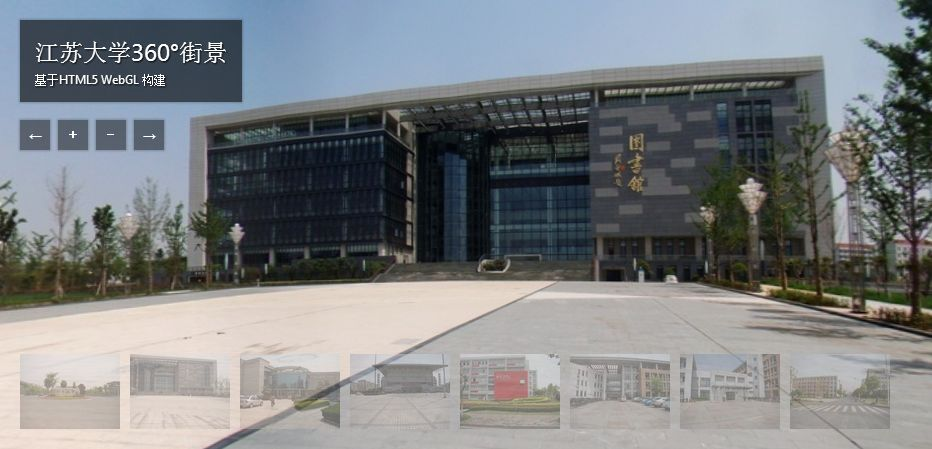
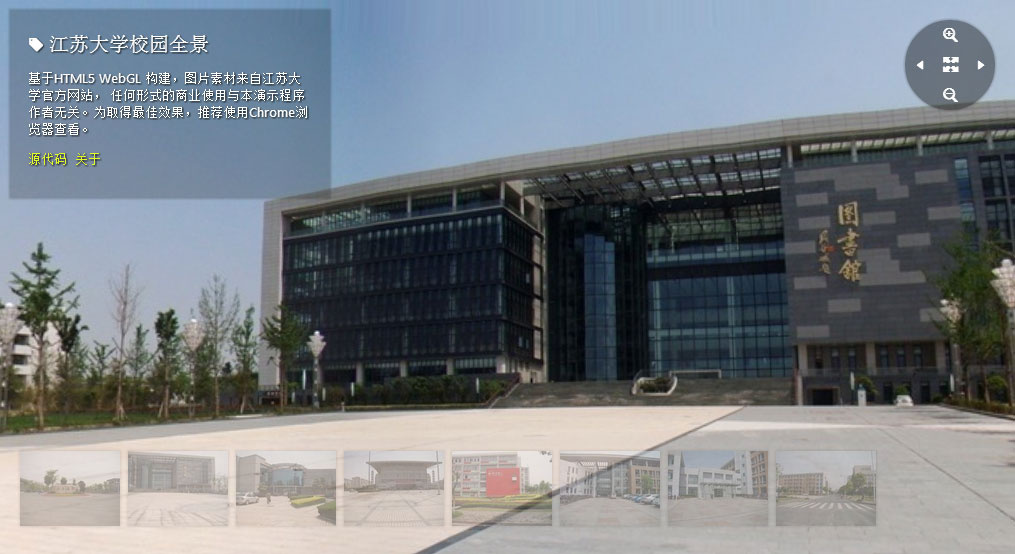
autofill black borders
1.enhanced drag experience
2.adapt for different ratio, autofill black borders
3.update screenshot
4.other issues

diff --git a/js/streetView.js b/js/streetView.js
@@ -45,7 +45,7 @@ var Detector = {
         var cause = window.WebGLRenderingContext ? "显卡" : "浏览器";
 
         element.innerHTML = [
-            '对不起，您的 ', cause, '不支持',
+            '对不起，您的', cause, '不支持',
             '<a href="http://khronos.org/webgl/wiki/Getting_a_WebGL_Implementation" style="color:#000">WebGL</a>。<br />',
             '更多详情请参考<a href="http://get.webgl.org/" style="color:#000">这里</a>。'
         ].join('');
@@ -111,6 +111,7 @@ var StreetView = function (container) {
     // WEB-GL
     var camera, renderer, scene;
     var vector3, mesh;
+    var ORIGIN = new THREE.Vector3;
 
     var overRenderer;
     var curZoomSpeed = 0, zoomSpeed = 50;
@@ -120,8 +121,8 @@ var StreetView = function (container) {
         target = { x: Math.PI * 3 / 2, y: 0},
         targetOnDown = { x: 0, y: 0 };
 
-    var distance = 100, distanceTarget = 0;
-    var Y_RANGE = Math.PI / 12, RADIUS = 400, CANVAS_WIDTH = 3200, CANVAS_HEIGHT = 1600;
+    var yRange = Math.PI / 2, RADIUS = 1000;
+    var distance = 0, distanceTarget = RADIUS / 2;
 
     var initialized = false;
     var self = this; // instance
@@ -134,17 +135,49 @@ var StreetView = function (container) {
         self.onImageLoad();
         self.image = image;
         var img = new Image(), ratio = 2;
-        canvasContext.clearRect(0, 0, CANVAS_WIDTH, CANVAS_HEIGHT);
+        canvasContext.clearRect(0, 0, canvas.width, canvas.height);
         
         img.onload = function() {
             self.onImageLoadFinished();
+            var ratio = img.width / img.height;
             
-            var h = img.height * CANVAS_WIDTH / img.width;
+            // var maxWidth = screen.width * 2;
+            canvas.width = img.width > 4096 ? 4096 : img.width;
+            canvas.height = canvas.width / 2;
+            
+            var h = (canvas.width / ratio) >> 0, top = (canvas.height - h) >> 1;
             canvasContext.save();
-            canvasContext.translate(CANVAS_WIDTH, 0);
+            canvasContext.translate(canvas.width, 0);
             canvasContext.scale(-1, 1);
-            canvasContext.drawImage(img, 0, (CANVAS_HEIGHT - h) / 2, CANVAS_WIDTH, h);
-            canvasContext.restore();            
+            // canvasContext.fillStyle = '#fff';
+            // canvasContext.fillRect(0, 0, canvas.width, canvas.height);
+            canvasContext.drawImage(img, 0, top, canvas.width, h);
+            canvasContext.restore();
+            if(ratio > 2) {
+                var canvasProcessor = document.createElement('canvas'),
+                    contextProcessor = canvasProcessor.getContext("2d"),
+                    imageData;
+                
+                canvasProcessor.width = canvas.width;
+                canvasProcessor.height = 1;
+
+                // header
+                imageData = canvasContext.getImageData(0, top, canvas.width, 1);
+                contextProcessor.putImageData(imageData, 0, 0);
+                canvasContext.putImageData(imageData, 0, 0);
+                
+                canvasContext.fillStyle = canvasContext.createPattern(canvasProcessor, 'repeat');
+                canvasContext.fillRect(0, 0, canvas.width, top);
+                
+                // footer
+                imageData = canvasContext.getImageData(0, canvas.height - top - 1, canvas.width, 1);
+                contextProcessor.putImageData(imageData, 0, 0);
+                canvasContext.fillStyle = canvasContext.createPattern(canvasProcessor, 'repeat');
+                canvasContext.fillRect(0, canvas.height - top, canvas.width, top);
+
+                canvasProcessor = null;
+            }
+            
             texture.needsUpdate = true;
             
             self.onImageDrawFinished();
@@ -208,12 +241,12 @@ var StreetView = function (container) {
             w = container.offsetWidth || window.innerWidth,
             h = container.offsetHeight || window.innerHeight;
 
-        canvas.width = CANVAS_WIDTH, canvas.height = CANVAS_HEIGHT;
+        canvas.width = screen.height * 2, canvas.height = screen.height;
 
         texture || (texture = new THREE.Texture(canvas));
         
-        camera = new THREE.PerspectiveCamera(45, w / h, 100, 1e4);
-        camera.position.z = 0;
+        camera = new THREE.PerspectiveCamera(30, w / h, RADIUS, RADIUS);
+        camera.position.set(0, 0, 0);
 
         vector3 = new THREE.Vector3;
         scene = new THREE.Scene;
@@ -273,13 +306,13 @@ var StreetView = function (container) {
         mouse.x = -event.clientX;
         mouse.y = event.clientY;
 
-        var zoomDamp = distance / 10000;
+        var zoomDamp = Math.log(distance) / 1e3;
 
         target.x = targetOnDown.x - (mouse.x - mouseOnDown.x) * zoomDamp;
         target.y = targetOnDown.y - (mouse.y - mouseOnDown.y) * zoomDamp;
 
-        target.y = target.y > Y_RANGE ? Y_RANGE : target.y;
-        target.y = target.y < -Y_RANGE ? -Y_RANGE : target.y;
+        target.y = target.y > yRange ? yRange : target.y;
+        target.y = target.y < -yRange ? -yRange : target.y;
     }
 
     function onMouseUp(event) {
@@ -307,11 +340,10 @@ var StreetView = function (container) {
     this.zoomOut = function(){return zoom(-100), this};
     
     var pan = function(offset) {
-      //todo: 修改速度算法
-      return target.x += offset * 0.005 * distance / 100, this;
+      return target.x += offset * Math.log(distance) / 256, this;
     }
-    this.panLeft = function(){return pan(2);}
-    this.panRight = function(){return pan(-2);}
+    this.panLeft = function(){return pan(1);}
+    this.panRight = function(){return pan(-1);}
     
     function onDocumentKeyDown(event) {
         var prevent = true;
@@ -342,13 +374,14 @@ var StreetView = function (container) {
 
     function zoom(delta) {
         distanceTarget -= delta;
-        distanceTarget = distanceTarget > 500 ? 500 : distanceTarget;
-        distanceTarget = distanceTarget < 20 ? 20 : distanceTarget;
+        distanceTarget = distanceTarget > RADIUS ? RADIUS : distanceTarget;
+        distanceTarget = distanceTarget < 10 ? 10 : distanceTarget;
     }
 
     function animate() {
         zoom(curZoomSpeed);
 
+        window.target = target;
         // static
         rotation.x += (target.x - rotation.x) * 0.1;
         rotation.y += (target.y - rotation.y) * 0.1;
@@ -358,9 +391,9 @@ var StreetView = function (container) {
         camera.position.y = distance * Math.sin(rotation.y);
         camera.position.z = distance * Math.cos(rotation.x) * Math.cos(rotation.y);
 
-        camera.lookAt(scene.position);
+        camera.lookAt(ORIGIN);
 
-        vector3.copy(camera.position);
+        // vector3.copy(camera.position);
         
         renderer.clear();
         renderer.render(scene, camera);

diff --git a/index.htm b/index.htm
@@ -4,9 +4,6 @@
   <meta charset="UTF-8" />
   
   <title>江苏大学校园全景</title>
-
-  <meta name="Keywords" content="3d,webgl,globe,map,interactive">
-  <meta name="description" content="Demo page for tellurian.js, an interacive 3d globe based on WebGL.">
   <meta http-equiv="X-UA-Compatible" content="IE=edge,chrome=1">
   <meta name="viewport" content="width=device-width">
 
@@ -19,25 +16,16 @@
 </head>
 <body>
   <header>
-    <h1>江苏大学校园全景</h1>
-    <p>基于HTML5 WebGL 构建，图片素材来自江苏大<br>
-      学官方网站，任何形式的商业使用与本演示程序<br>
-      作者无关。推荐使用Chrome浏览器查看。</p>
-    <p>
-      <a href="https://github.com/chichou/ujscampusview">源代码</a>&nbsp;
-      <a href="http://chichou.0ginr.com/blog/739">联系作者</a>
-    </p>
+    <article>
+      <h1><i class="iconfont tag"></i> 江苏大学校园全景</h1>
+      <p>基于HTML5 WebGL 构建，图片素材来自江苏大学官方网站，
+      任何形式的商业使用与本演示程序作者无关。为取得最佳效果，推荐使用Chrome浏览器查看。</p>
+      <p>
+        <a href="https://github.com/chichou/ujscampusview">源代码</a>&nbsp;
+        <a href="http://chichou.0ginr.com/blog/739">关于</a>
+      </p>
+    </article>
   </header>
-  
-  <div id="control">
-    <span class="press">
-      <button id="panLeft"><i class="iconfont left"></i></button>
-      <button id="panRight"><i class="iconfont right"></i></button>
-      <button id="zoomIn"><i class="iconfont zoomin"></i></button>
-      <button id="zoomOut"><i class="iconfont zoomout"></i></button>
-    </span>
-    <button id="fullscreen"><i class="iconfont fullscreen"></i></button>
-  </div>
   
   <nav>
     <a href="#gate"><img src="img/gate-s.jpg"><span>正门</span></a>
@@ -49,6 +37,16 @@
     <a href="#medicine"><img src="img/medicine-s.jpg"><span>药学院</span></a>
     <a href="#clinical"><img src="img/clinical-s.jpg"><span>临床医学院</span></a>
   </nav>
+  
+  <div id="control">
+    <span class="press">
+      <button id="panLeft"><i class="iconfont left"></i></button>
+      <button id="panRight"><i class="iconfont right"></i></button>
+      <button id="zoomIn"><i class="iconfont zoomin"></i></button>
+      <button id="zoomOut"><i class="iconfont zoomout"></i></button>
+    </span>
+    <button id="fullscreen"><i class="iconfont fullscreen"></i></button>
+  </div>
   
   <div id="viewport">
     <p class="webgl-error">对不起，您的浏览器不支持WebGL</p>
@@ -75,7 +73,6 @@
       });
       $('nav').on('click', 'a', function(e) {
         streetView.toggle(imgPath(this));
-        return false;
       });
 
       $('#fullscreen').on('click', function(e) {

diff --git a/css/style.css b/css/style.css
@@ -1,23 +1,31 @@
-body{margin:0;background:#000;}
-
+body{margin:0;background:#000;overflow:hidden}
 header,nav,#control{position:absolute;z-index:20}
-header{position:absolute;top:20px;left:20px;color:#fff;padding:15px;text-shadow:1px 1px 2px #000;background:rgba(0,0,0,.6);box-shadow:0 0 2px 1px rgba(0, 0, 0, 0.22);font-size:12px}
+header{position:absolute;color:#fff;text-shadow:1px 1px 2px #000;background:rgba(0,0,0,.2);
+  box-shadow:0 0 2px 1px rgba(0, 0, 0, 0.22);font-size:13px;top:10px;left:10px;width:320px;
+  -webkit-transition: all .2s ease-in;
+  -moz-transition: all .2s ease-in;
+  -o-transition: all .2s ease-in;
+  transition: all .2s ease-in;}
+header:hover{background:rgba(0,0,0,.6)}
+header > article{padding:18px}
+nav{}
 h1,h2{font-weight:normal;margin:0}
-a{color:#09f;text-decoration:none}
+a{color:#E5FF2A;text-decoration:none}
 /* h1{font-size:24px}
 h2{font-size:12px} */
-nav{bottom:20px;left:20px;opacity:.4;
-  -webkit-transition: opacity .2s ease-in;
-  -moz-transition: opacity .2s ease-in;
-  -o-transition: opacity .2s ease-in;
-  transition: opacity .2s ease-in;
+nav{bottom:20px;opacity:.4;left:20px;
+  -webkit-transition: all .2s ease-in;
+  -moz-transition: all .2s ease-in;
+  -o-transition: all .2s ease-in;
+  transition: all .2s ease-in;
 }
-nav:hover{opacity:1}
+nav:hover{opacity:1;opacity:1}
 nav > a, nav > a > img{width:100px;height:75px}
-nav > a{color:#fff;position:relative;display:block;float:left;margin-right:10px;}
+nav > a{color:#fff;position:relative;display:inline-block;margin-right:4px;margin-bottom:4px;
+  box-shadow:0 0 2px 1px rgba(0, 0, 0, 0.22)}
 nav > a:hover > span{display:block}
 nav > a > span{display:none;position:absolute;bottom:0;text-align:center;
-  font-size:18px;background:rgba(0,0,0,.4);width:100%;line-height:75px}
+  font-size:18px;background:rgba(0,0,0,.8);width:100%;line-height:75px}
 nav > a > img{display:block;}
 
 #viewport{width:100%;height:100%;position:absolute;z-index:1}
